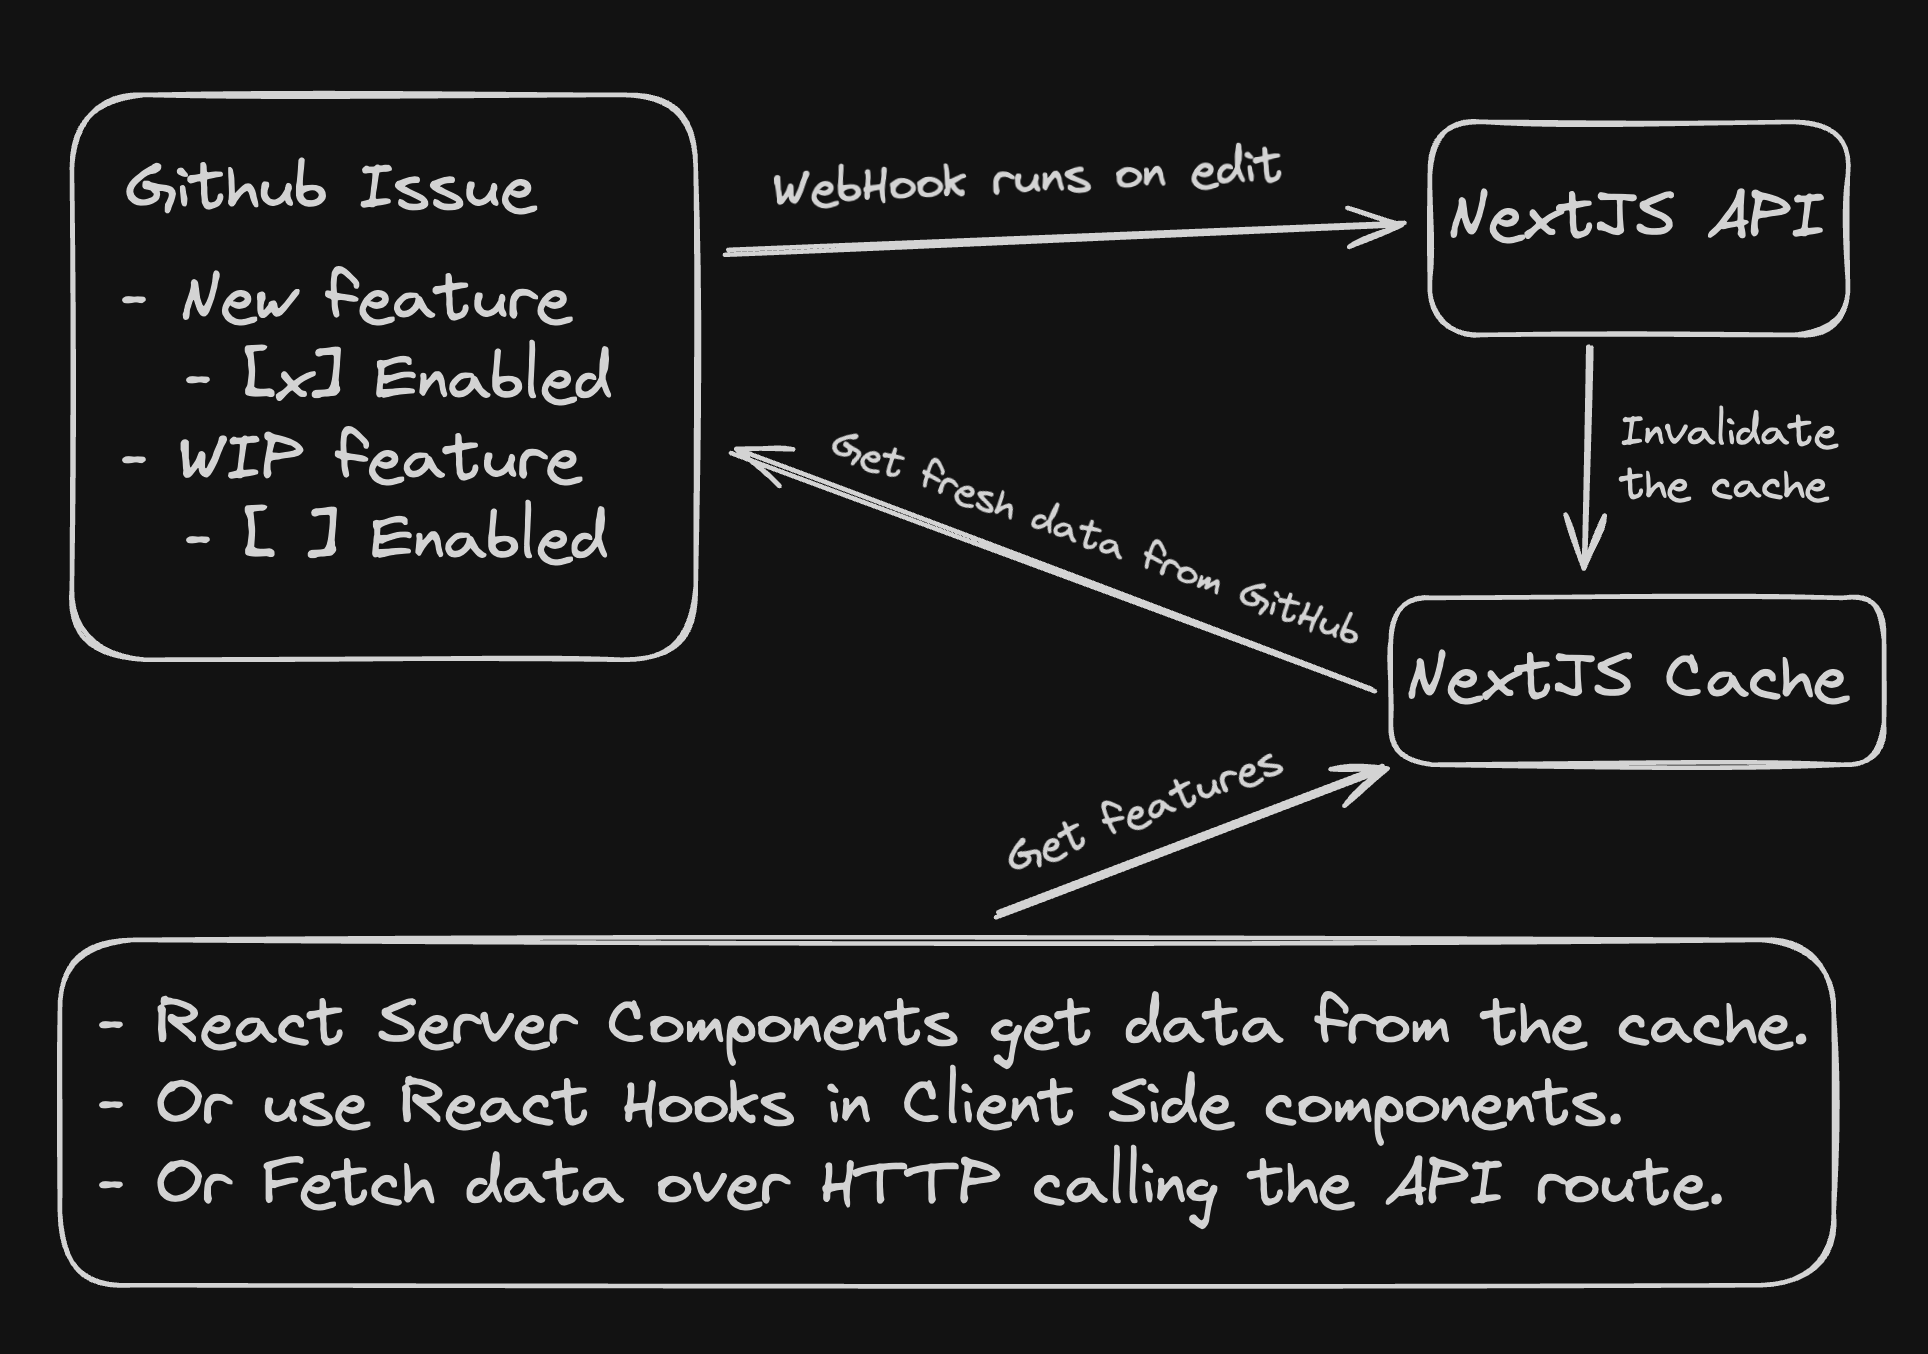
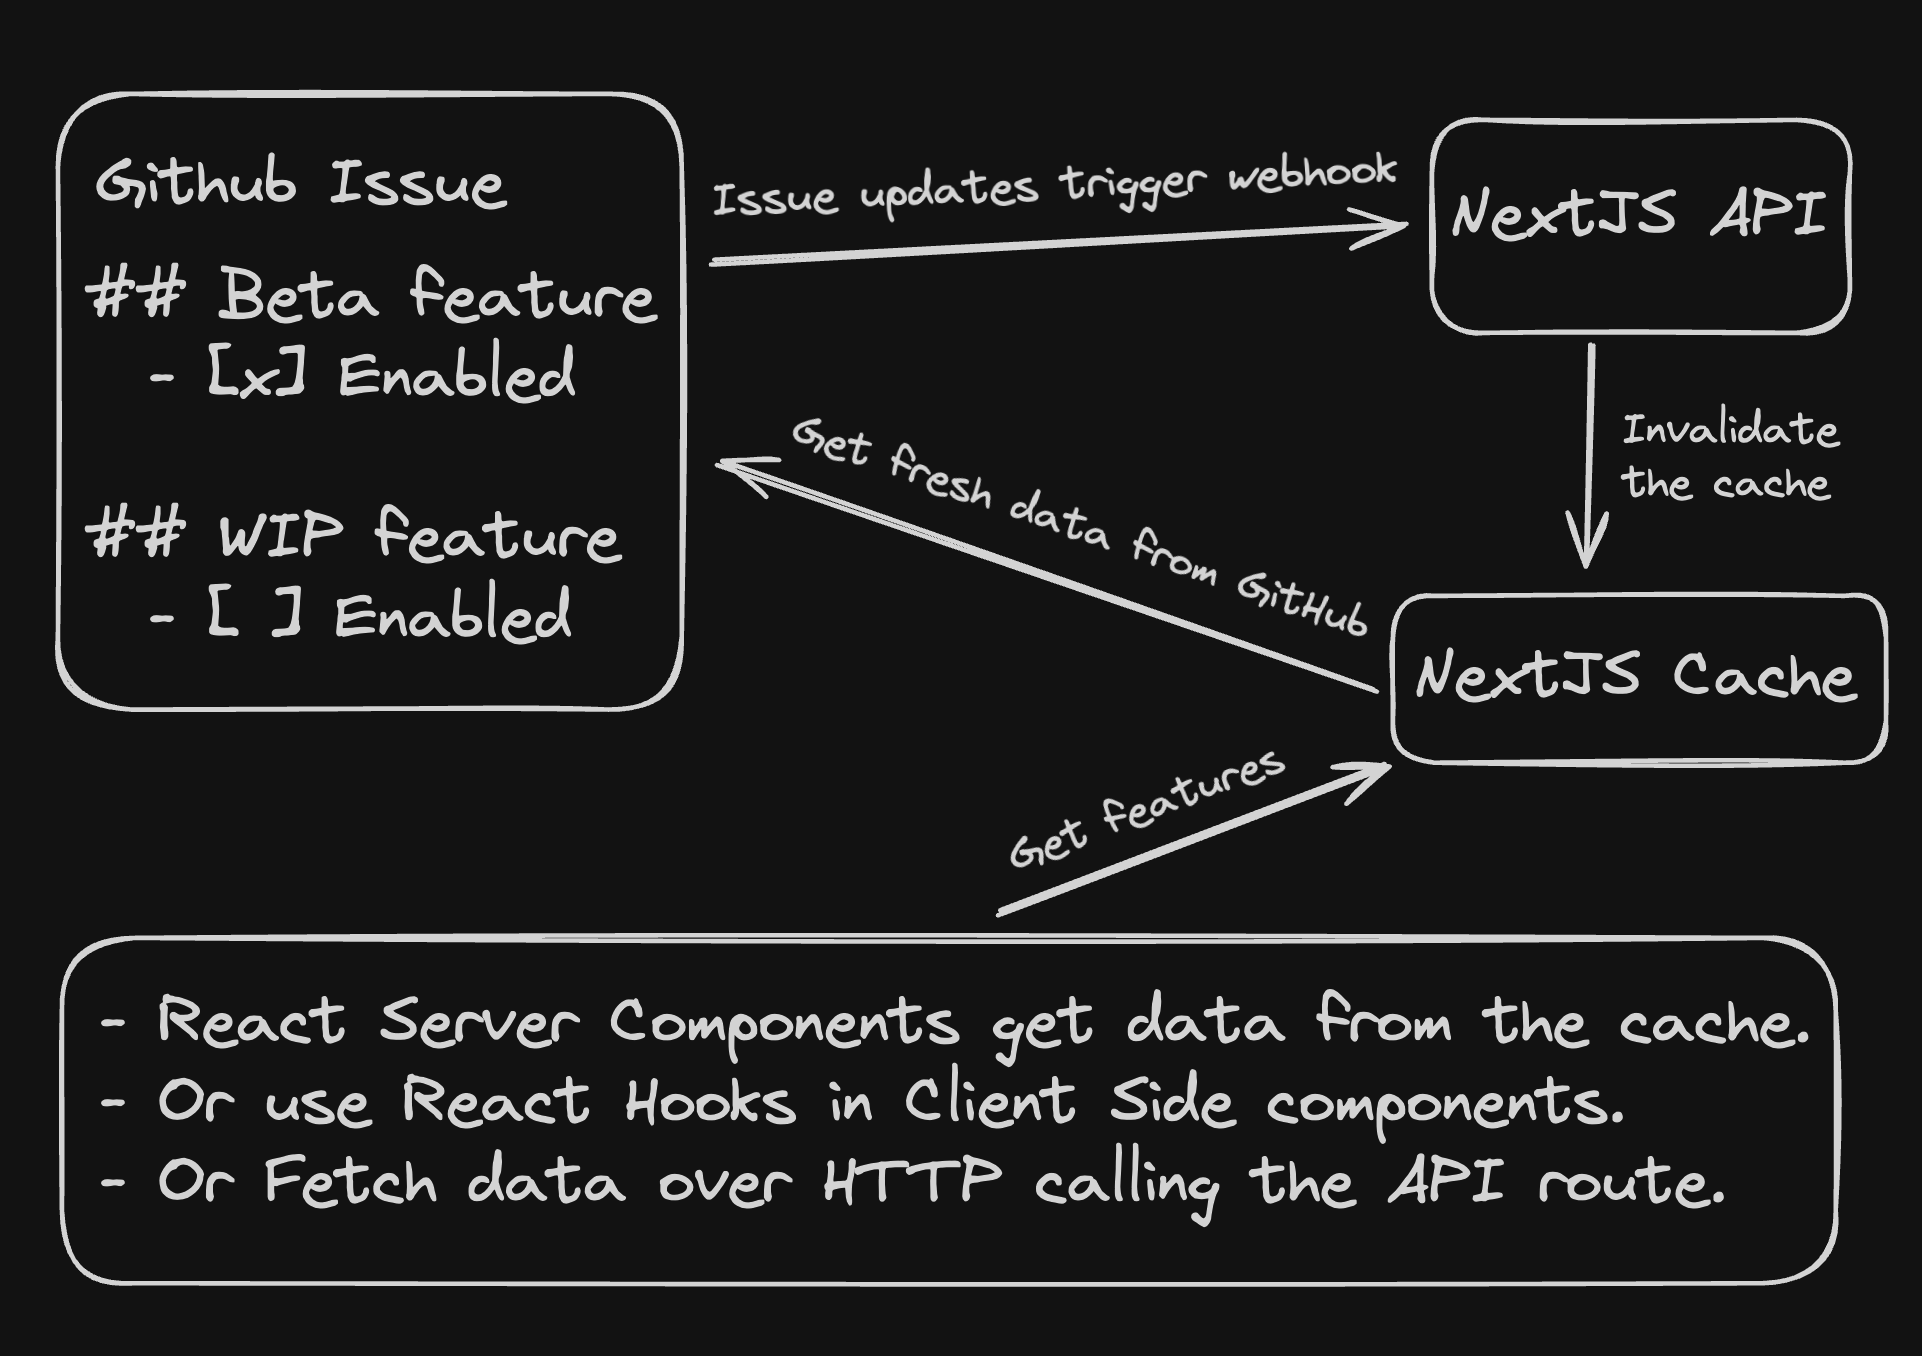
docs: improve readme

Changed region(s): [[0.0312, 0.062, 0.999, 0.9616], [0.7492, 0.062, 0.9365, 0.0931], [0.2185, 0.062, 0.2497, 0.0931]]

diff --git a/examples/nextjs-example/src/app/api/next-flag/nf.ts b/examples/nextjs-example/src/app/api/next-flag/nf.ts
@@ -1,15 +1,6 @@
-// cache is only required if you're package linking next-flag during local development
-// eslint-disable-next-line camelcase
-import { revalidateTag, unstable_cache } from 'next/cache';
 import { NextFlag } from 'next-flag';
 
 export const nf = new NextFlag({
-  // cache is only required if you're package linking next-flag during local development
-  cache: {
-    revalidateTag,
-    // eslint-disable-next-line camelcase
-    unstable_cache,
-  },
   paths: [
     {
       repository: 'TimMikeladze/next-flag',

diff --git a/examples/nextjs-example/README.md b/examples/nextjs-example/README.md
@@ -1,36 +1,43 @@
-This is a [Next.js](https://nextjs.org/) project bootstrapped with [`create-next-app`](https://github.com/vercel/next.js/tree/canary/packages/create-next-app).
+## Running the NextJS example
 
-## Getting Started
+1. Use [ngrok](https://ngrok.com/) to test the webhook locally. Run `ngrok http 3000` and copy the URL.
+2. Follow the instructions in the package readme to get a GitHub token.
+3. Setup a GitHub Webhook. Use `https://my-ngrok-url/api/next-flag` as the payload URL for the Webhook.
+4. Add the token and secret to `.env.local`.
+5. Create a new issue with the contents below. Take note of the issue number.
+6. Modify `src/app/api/next-flag/nf.ts` to include the repository and issue number.
+7. Install the dependencies with `npm install`.
+8. Start the NextJS app with `npm run dev`.
+9. Modify the issue to see the changes reflected in the app.
 
-First, run the development server:
+```markdown
+# 🏁 Feature Flags
 
-```bash
-npm run dev
-# or
-yarn dev
-# or
-pnpm dev
-# or
-bun dev
+## Next logo
+
+- [x] Enabled
+
+### Production
+
+- [x] Enabled
+
+### Preview
+
+- [x] Enabled
+
+### Development
+
+- [ ] Enabled
+
+## Vercel logo
+
+- [x] Enabled
+
+## Getting started
+
+- [x] Enabled
+
+## Footer
+
+- [x] Enabled
 ```
-
-Open [http://localhost:3000](http://localhost:3000) with your browser to see the result.
-
-You can start editing the page by modifying `app/page.tsx`. The page auto-updates as you edit the file.
-
-This project uses [`next/font`](https://nextjs.org/docs/basic-features/font-optimization) to automatically optimize and load Inter, a custom Google Font.
-
-## Learn More
-
-To learn more about Next.js, take a look at the following resources:
-
-- [Next.js Documentation](https://nextjs.org/docs) - learn about Next.js features and API.
-- [Learn Next.js](https://nextjs.org/learn) - an interactive Next.js tutorial.
-
-You can check out [the Next.js GitHub repository](https://github.com/vercel/next.js/) - your feedback and contributions are welcome!
-
-## Deploy on Vercel
-
-The easiest way to deploy your Next.js app is to use the [Vercel Platform](https://vercel.com/new?utm_medium=default-template&filter=next.js&utm_source=create-next-app&utm_campaign=create-next-app-readme) from the creators of Next.js.
-
-Check out our [Next.js deployment documentation](https://nextjs.org/docs/deployment) for more details.

diff --git a/README.md b/README.md
@@ -168,6 +168,38 @@ const Component = () => {
 
 ## 💪 Advanced Usage
 
+### 🏝 Multiple environments or branches
+
+By default `next-flag` will try to read `process.env.VERCEL_ENV || process.env.ENV || process.env.STAGE || process.env.NODE_ENV` to determine the current environment.
+
+You can customize how the current environment is determined during runtime by passing a `getEnvironment` function to the `NextFlag` constructor.
+
+To associate a feature with a specific environment, add a subheading to the feature issue with the name of the environment (case-insensitive).
+
+- When using multiple environments, the top-level feature flag will control whether the feature is enabled or disabled.
+- If the top-level feature flag is disabled, the feature will be disabled in all environments.
+- If the top-level feature flag is enabled, then the environment-specific flags will determine whether the feature is enabled.
+
+```markdown
+# 🏁 Feature Flags
+
+## My feature
+
+- [x] Enabled
+
+### Production
+
+- [ ] Enabled
+
+### Preview
+
+- [ ] Enabled
+
+### Development
+
+- [ ] Enabled
+```
+
 ### ✅ Getting all features
 
 You can always get all features by calling the `getFeatures` method. You can also open the `/api/next-flag` route in your browser to see the enabled features as a JSON array.
